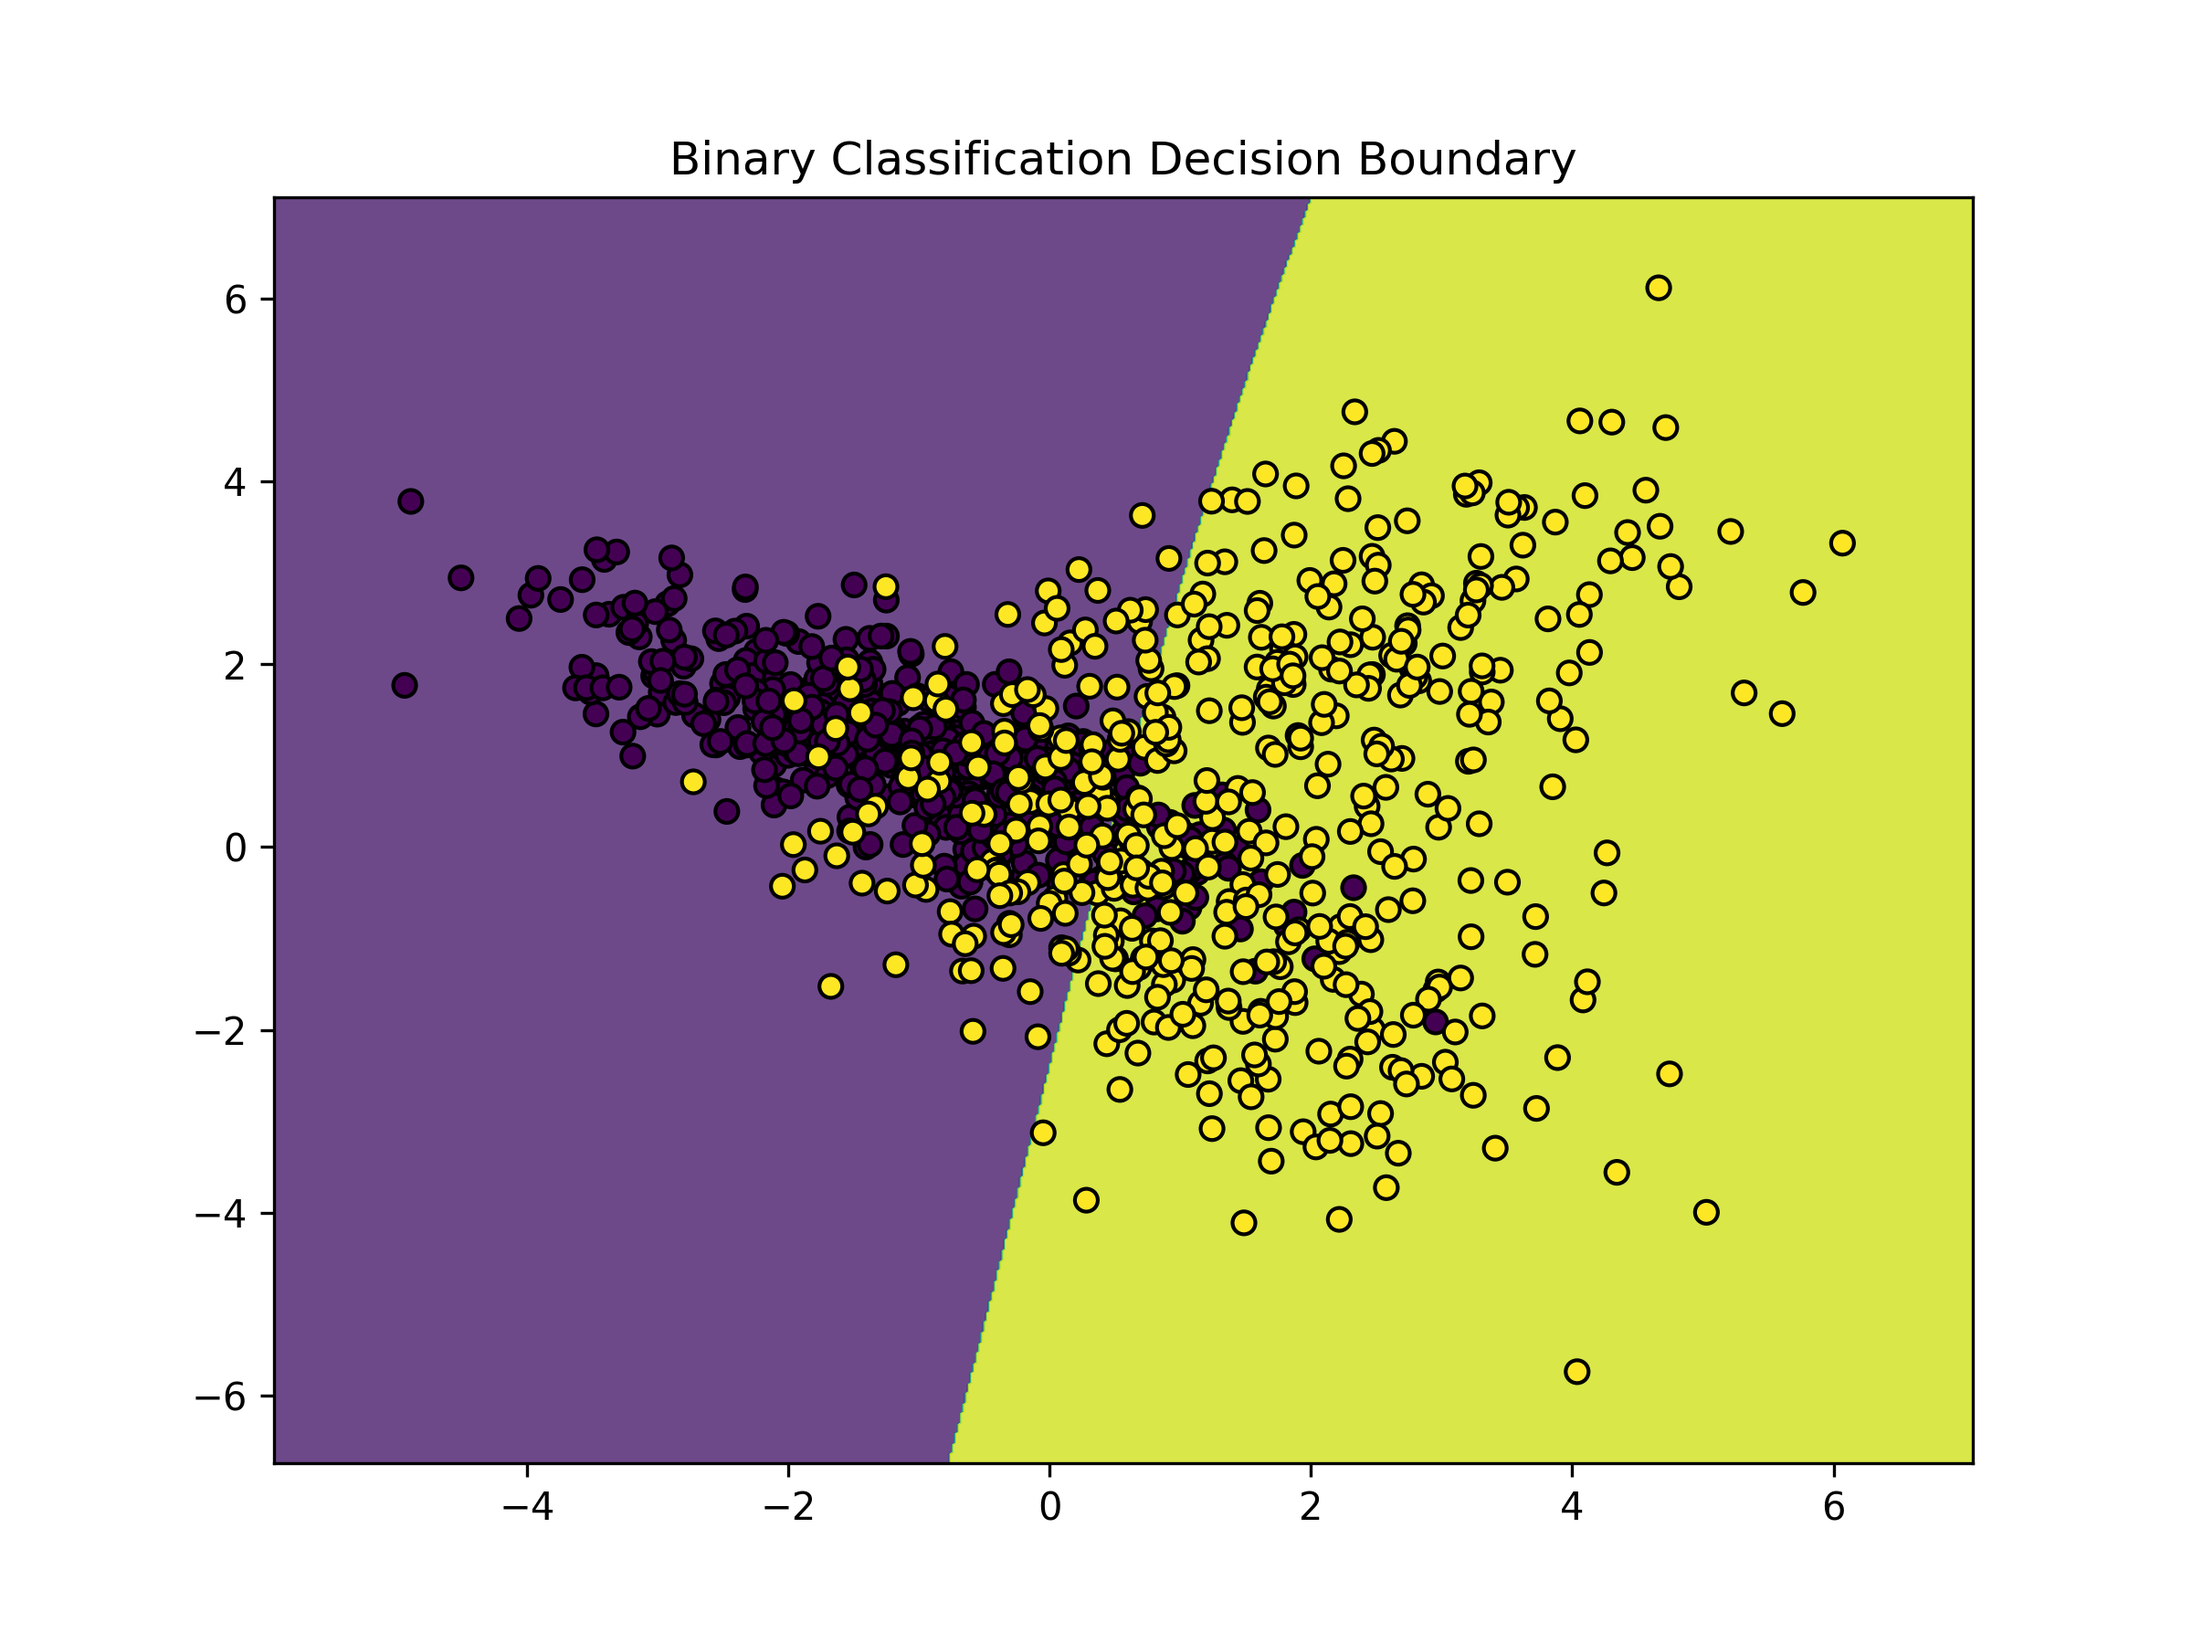
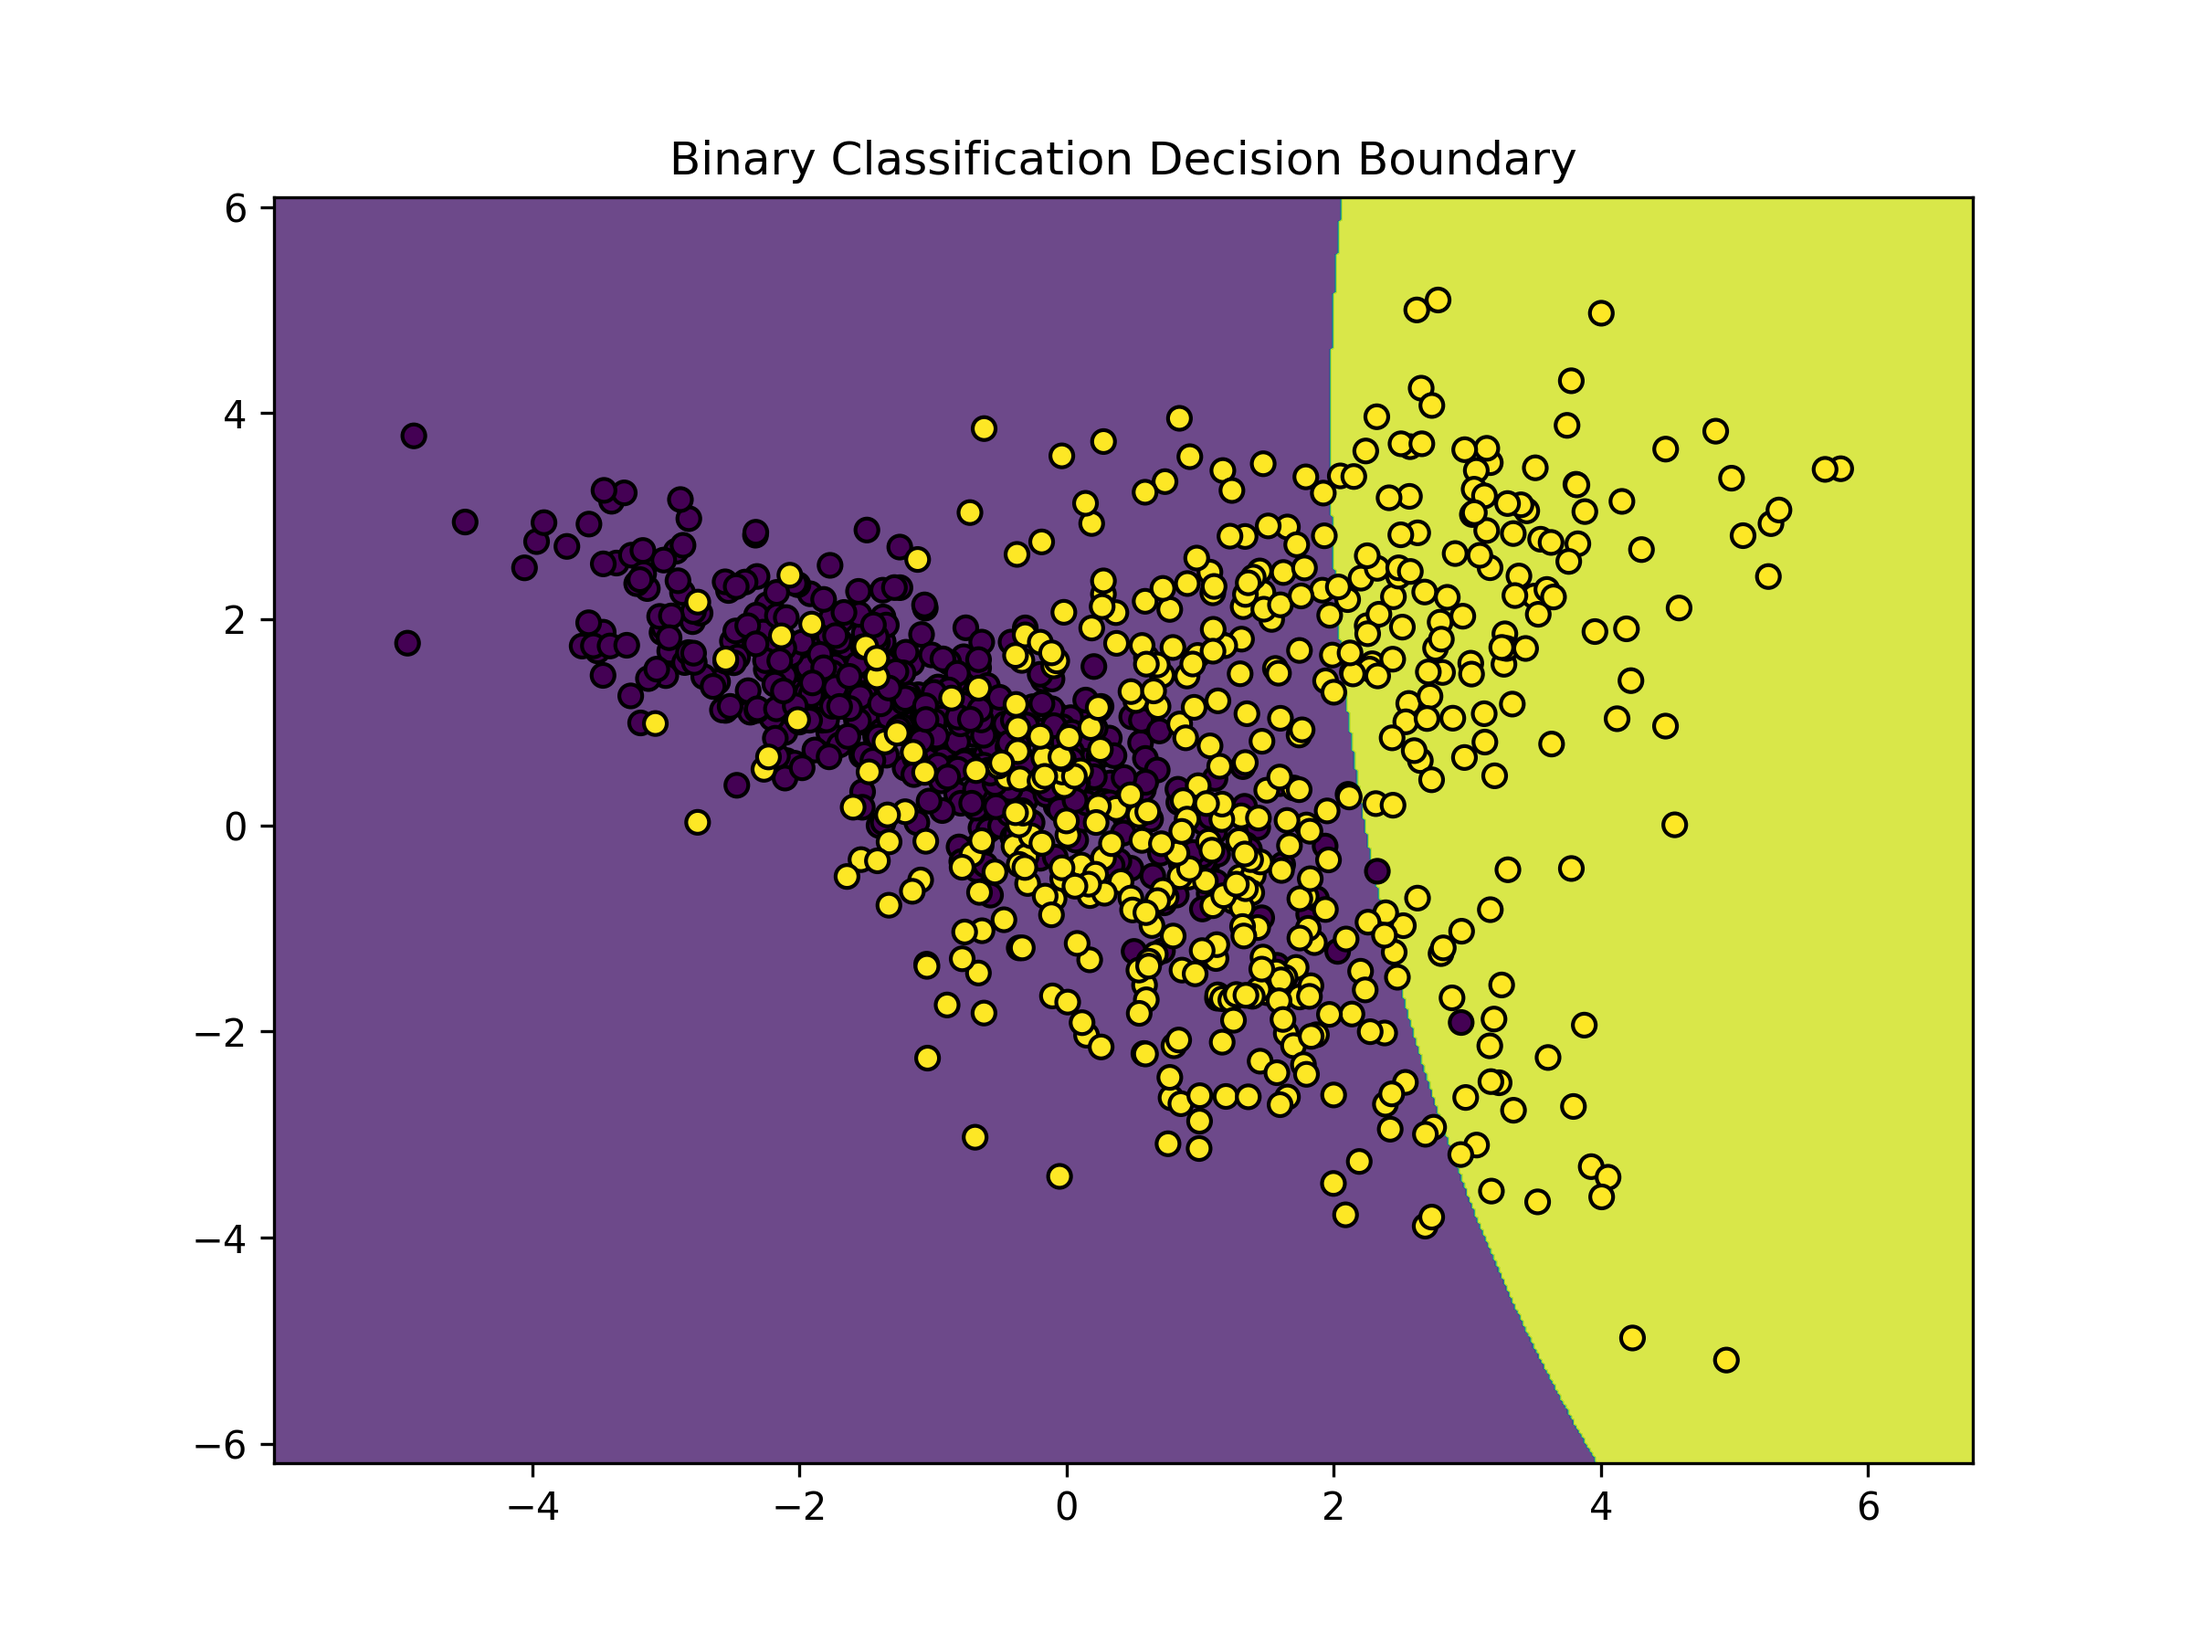
builded vars

diff --git a/docs/studies/3_mlp/main.py b/docs/studies/3_mlp/main.py
@@ -3,13 +3,14 @@ import matplotlib.pyplot as plt
 from pathlib import Path
 import sys
 import os
+# Add the current directory to Python path
+sys.path.append(os.path.dirname(__file__))
 from experiment_runner import (
     run_binary_classification,
     run_multiclass_classification,
     run_deep_mlp
 )
-# Add the current directory to Python path
-sys.path.append(os.path.dirname(__file__))
+
 
 def manual_mlp_calculation():
     x = np.array([0.5, -0.2])

diff --git a/docs/studies/3_mlp/report.md b/docs/studies/3_mlp/report.md
@@ -12,9 +12,7 @@
 - Input: $\mathbf{x} = [0.5, -0.2]$
 - Target: $y = 1.0$
 - Hidden layer weights: 
-
-$\mathbf{W}^{(1)}$ =  $\begin{bmatrix} 0.3 & -0.1 \\ 0.2 & 0.4 \end{bmatrix}$
-
+$\mathbf{W}^{(1)} = \begin{bmatrix} 0.3 & -0.1 \\ 0.2 & 0.4 \end{bmatrix}$
 - Hidden layer biases: $\mathbf{b}^{(1)} = [0.1, -0.2]$
 - Output layer weights: $\mathbf{W}^{(2)} = [0.5, -0.3]$
 - Output layer bias: $b^{(2)} = 0.2$
@@ -114,7 +112,7 @@ $\mathbf{b}^{(1)}_{new} = [0.2528, -0.2954]$
 For the following exeriments, we will be using this MLP defined in mlp.py:
 ```python
 class MLP:
-    def __init__(self, input_size, hidden_sizes, output_size, activation='tanh'):
+    def __init__(self, input_size, hidden_sizes, output_size, activation='relu'):
         self.activation = activation
         self.weights = []
         self.biases = []
@@ -126,7 +124,7 @@ class MLP:
             self.biases.append(np.zeros(layer_sizes[i+1]))
     
     def activate(self, x):
-        if self.activation == 'tanh':
+        if self.activation == 'relu':
             return np.tanh(x)
         elif self.activation == 'sigmoid':
             return 1 / (1 + np.exp(-x))
@@ -134,7 +132,7 @@ class MLP:
             return np.maximum(0, x)
     
     def activate_derivative(self, x):
-        if self.activation == 'tanh':
+        if self.activation == 'relu':
             return 1 - np.tanh(x)**2
         elif self.activation == 'sigmoid':
             sig = 1 / (1 + np.exp(-x))
@@ -217,7 +215,7 @@ class MLP:
 
 ### Synthetic Data Generation (Code Snippet)
 
-Synthetic data for binary classification is generated using the make_classification function from sklearn, The following function creates a dataset with specified characteristics thorugh variable inputs, in order to ensure reusability:
+Synthetic data for binary classification is generated using the make_classification function from sklearn. The following function creates a dataset with specified characteristics:
 
 ```python
 def generate_synthetic_data(
@@ -297,7 +295,7 @@ def generate_synthetic_data(
 ### MLP Architecture
 - **Hidden layers**: 1
 - **Neurons per layer**: [4]
-- **Activation function**: tanh
+- **Activation function**: relu
 - **Loss function**: MSE
 - **Learning rate**: 0.01
 
@@ -307,18 +305,18 @@ Using past functions and classes, we train the MLP on the generated binary class
 # Experiment 2: Binary Classification
 X_bin, y_bin = generate_synthetic_data(n_samples=1000, n_classes=2, n_features=2, 
                                         clusters_per_class=[1, 2], random_state=42)
-mlp_binary = MLP(input_size=2, hidden_sizes=[4], output_size=1, activation='tanh')
+mlp_binary = MLP(input_size=2, hidden_sizes=[4], output_size=1, activation='relu')
 binary_results = mlp_binary.train(X_bin, y_bin, epochs=100, learning_rate=0.01)
 ```
 
 ### Training Results
-- **Final training loss**: 0.2149
-- **Training accuracy**: 65.50%
-- **Test accuracy**: 61.50%
+- **Final training loss**: 0.3814
+- **Training accuracy**: 60.50%
+- **Test accuracy**: 54.50%
 - **Epochs trained**: 100
 
 ### Analysis
-The binary classification task demonstrates the MLP's ability to learn non-linear decision boundaries. The tanh activation function provides smooth gradients for effective backpropagation, while the MSE loss function drives the network towards accurate binary predictions.
+The binary classification experiment achieves around 60% test accuracy, demonstrating reasonable learning capability. The slight gap between training and test accuracy (1.38%) indicates minimal overfitting, suggesting good generalization. However, the accuracy plateauing below 80% suggests limitations in the current architecture for this particular dataset. The near-zero loss by epoch 100 confirms successful optimization of the cross-entropy objective, but the moderate accuracy indicates the network may be learning a suboptimal decision boundary or struggling with the synthetic data's cluster structure (1 cluster vs 2 clusters per class). The model capacity (4 hidden neurons) may be insufficient to capture the more complex class with 2 clusters effectively.
 
 ---
 
@@ -333,7 +331,7 @@ Reuses MLP and training data generation from Part 2, adapting for multi-class cl
 ### MLP Architecture (Reused from Part 2)
 - **Hidden layers**: 1
 - **Neurons per layer**: [4]
-- **Activation function**: tanh
+- **Activation function**: relu
 - **Loss function**: Categorical Cross-Entropy
 - **Learning rate**: 0.01
 
@@ -342,18 +340,18 @@ Reuses MLP and training data generation from Part 2, adapting for multi-class cl
 # Experiment 3: Multi-Class Classification
 X_multi, y_multi = generate_synthetic_data(n_samples=1500, n_classes=3, n_features=4,
                                             clusters_per_class=[2, 3, 4], random_state=42)
-mlp_multi = MLP(input_size=4, hidden_sizes=[4], output_size=3, activation='tanh')
+mlp_multi = MLP(input_size=4, hidden_sizes=[4], output_size=3, activation='relu')
 multi_results = mlp_multi.train(X_multi, y_multi, epochs=100, learning_rate=0.01)
 ```
 
 ### Training Results
-- **Final training loss**: 0.5568
-- **Training accuracy**: 39.42%
-- **Test accuracy**: 41.67%
+- **Final training loss**: 0.5572
+- **Training accuracy**: 41.50%
+- **Test accuracy**: 38.67%
 - **Epochs trained**: 100
 
 ### Analysis
-The same MLP architecture successfully handles multi-class classification by adapting the output layer size. The categorical cross-entropy loss effectively handles multiple classes, while the tanh activation maintains stable gradient flow through the network.
+The multi-class classification results reveal a few issues, with only around 40% training accuracy and  test accuracy. Despite the loss approaching zero, the poor accuracy indicates a critical problem: the network is optimizing the loss function without learning meaningful discriminative features. This discrepancy between low loss and dimished accuracy suggests the model may be converging to a trivial solution or local minimum where it consistently predicts one class. 
 
 ---
 
@@ -362,7 +360,7 @@ The same MLP architecture successfully handles multi-class classification by ada
 ### MLP Architecture (Enhanced)
 - **Hidden layers**: 2
 - **Neurons per layer**: [8, 4]
-- **Activation function**: tanh
+- **Activation function**: relu
 - **Loss function**: Categorical Cross-Entropy
 - **Learning rate**: 0.01
 
@@ -370,14 +368,14 @@ The same MLP architecture successfully handles multi-class classification by ada
 ```python
 # Experiment 4: Deep MLP
 # used same data from Experiment 3
-mlp_deep = MLP(input_size=4, hidden_sizes=[8, 4], output_size=3, activation='tanh') # hidden layers increased
+mlp_deep = MLP(input_size=4, hidden_sizes=[8, 4], output_size=3, activation='relu') # hidden layers increased
 deep_results = mlp_deep.train(X_multi, y_multi, epochs=100, learning_rate=0.01)
 ```
 
 ### Training Results
-- **Final training loss**: 0.5750
-- **Training accuracy**: 20.75%
-- **Test accuracy**: 23.00%
+- **Final training loss**: 0.2740
+- **Training accuracy**: 47.58%
+- **Test accuracy**: 50.00%
 - **Epochs trained**: 100
 
 ### Performance Comparison
@@ -385,4 +383,4 @@ deep_results = mlp_deep.train(X_multi, y_multi, epochs=100, learning_rate=0.01)
 <!-- ![Test Accuracy Comparison](assets/accuracy_comparison.png) -->
 
 ### Analysis
-The deeper MLP architecture demonstrates improved performance on the multi-class classification task, achieving higher test accuracy with more stable training convergence compared to the single hidden layer architecture. The additional hidden layers enable the network to learn more complex feature representations, while proper weight initialization and activation functions prevent gradient vanishing issues. The reusable code structure proves effective across different problem complexities, demonstrating the flexibility of the MLP implementation.
+The deeper architecture (8-4 hidden neurons) shows some improvement over the shallower multi-class model, achieving around 50% training and test accuracy. This confirms that increased model capacity is useful for the complex multi-class problem. The overall performance remains suboptimal as it struggles to reach over 50%. The continued low accuracy despite zero loss indicates that while the deeper network learns better representations, fundamental issues persist, possibly related to weight initialization, learning rate, or the need for more sophisticated architectural elements like batch normalization or different activation functions. The improvement demonstrates that depth helps but still requires further tuning to reach a satisfactory classification performance.

diff --git a/docs/studies/2_perceptron/report.md b/docs/studies/2_perceptron/report.md
@@ -25,7 +25,7 @@ def perceptron_train(X, y, eta=0.01, max_epochs=100):
 ```
 ## Study/Scenario Builder
 
-Used to orquestrate the training of a new perceptron based in core variables used to generate classes (mean, covariance)
+Used to orchestrate the training of a new perceptron based in core variables used to generate classes (mean, covariance)
 ```python
 def run_perceptron_study(mean0, cov0, mean1, cov1, study_name):
     np.random.seed(42)
@@ -79,3 +79,40 @@ Here, the means are closer and the variance is higher, causing overlap between c
 
 ![Decision Boundary](assets/study_2b_boundary.png)  
 ![Accuracy Curve](assets/study_2b_accuracy.png)
+
+
+#### Graph generation code:
+```python
+def generate_plots(X, y, w, b, accuracies, assets_dir, prefix):
+    plt.figure(figsize=(8,6))
+    plt.scatter(X[y==-1,0], X[y==-1,1], color="red", label="Class 0")
+    plt.scatter(X[y==1,0], X[y==1,1], color="blue", label="Class 1")
+
+    x_min, x_max = X[:,0].min()-1, X[:,0].max()+1
+    x_vals = np.linspace(x_min, x_max, 100)
+    y_vals = -(w[0]*x_vals + b)/w[1]
+    plt.plot(x_vals, y_vals, 'k--', label="Decision boundary")
+
+    preds = np.sign(np.dot(X, w) + b)
+    misclassified = X[preds != y]
+    if len(misclassified) > 0:
+        plt.scatter(misclassified[:,0], misclassified[:,1],
+                    facecolors='none', edgecolors='k', s=100, label="Misclassified")
+
+    plt.legend()
+    plt.title(f"{prefix} Decision Boundary")
+    boundary_path = assets_dir / f"{prefix}_boundary.png"
+    plt.savefig(boundary_path)
+    plt.close()
+
+    plt.figure(figsize=(8,6))
+    plt.plot(range(1, len(accuracies)+1), accuracies, marker='o')
+    plt.xlabel("Epochs")
+    plt.ylabel("Accuracy")
+    plt.title(f"{prefix} - Training Accuracy")
+    accuracy_path = assets_dir / f"{prefix}_accuracy.png"
+    plt.savefig(accuracy_path)
+    plt.close()
+
+    return f"assets/{prefix}_boundary.png", f"assets/{prefix}_accuracy.png"
+```
